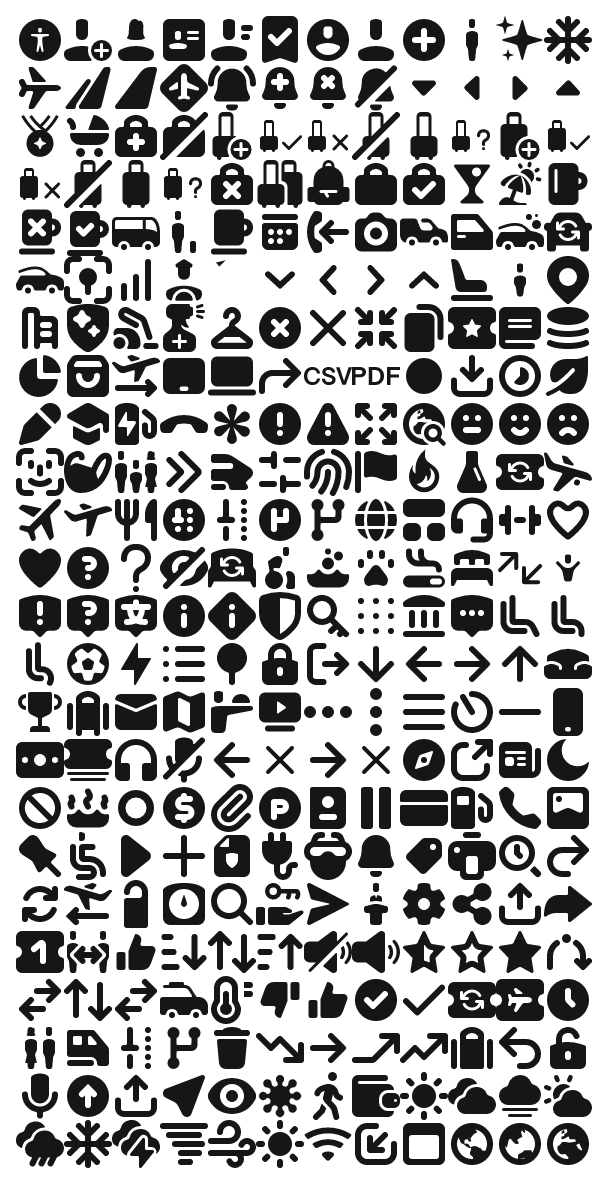
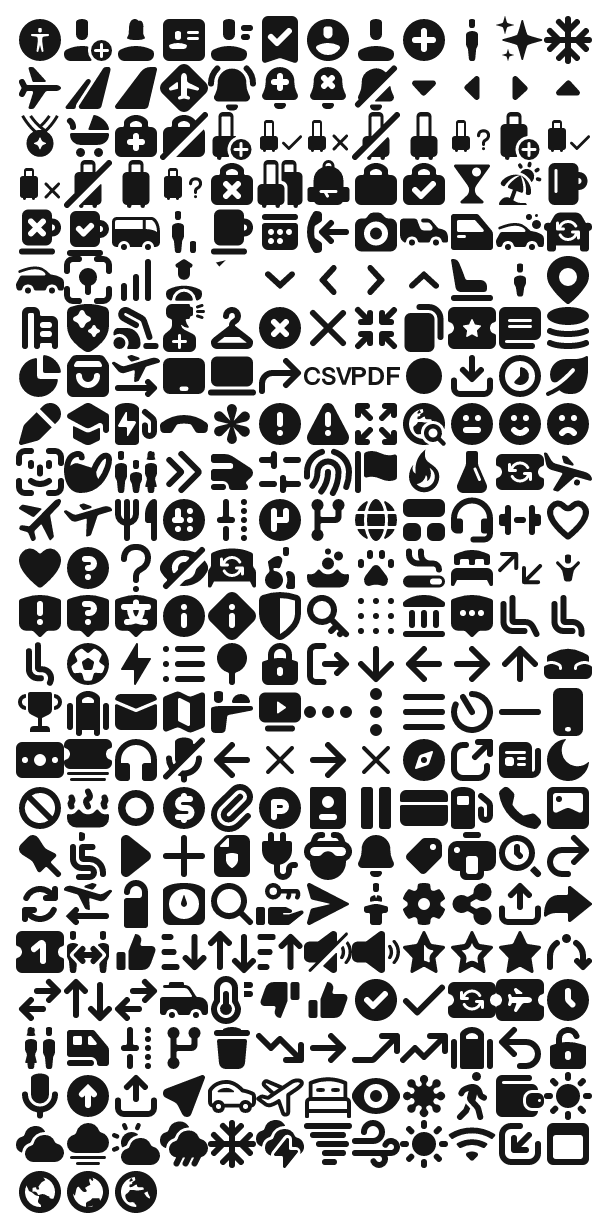
[DON-2356] Update bpk-svg to 20.11.0 (#2511)
* [DON-2356] Update bpk-svg to 20.11.0
 Reverted to BpkIcon constructor internal and update visibility of properties

* Updated snapshots

---------

diff --git a/backpack-compose/src/main/kotlin/net/skyscanner/backpack/compose/tokens/BpkIcon.kt b/backpack-compose/src/main/kotlin/net/skyscanner/backpack/compose/tokens/BpkIcon.kt
@@ -2172,6 +2172,126 @@ public val BpkIcon.Companion.UseLocation: BpkIcon by Delegates.singleton(
     )
 )
 
+public val BpkIcon.Companion.VdlCars: BpkIcon by Delegates.singleton(
+    BpkIcon(
+        name = "vdl-cars",
+        small = R.drawable.bpk_vdl_cars_sm,
+        large = R.drawable.bpk_vdl_cars,
+    )
+)
+
+public val BpkIcon.Companion.VdlFlight: BpkIcon by Delegates.singleton(
+    BpkIcon(
+        name = "vdl-flight",
+        small = R.drawable.bpk_vdl_flight_sm,
+        large = R.drawable.bpk_vdl_flight,
+    )
+)
+
+public val BpkIcon.Companion.VdlHomeBeach: BpkIcon by Delegates.singleton(
+    BpkIcon(
+        name = "vdl-home-beach",
+        small = R.drawable.bpk_vdl_home_beach,
+        large = R.drawable.bpk_vdl_home_beach,
+    )
+)
+
+public val BpkIcon.Companion.VdlHomeCars: BpkIcon by Delegates.singleton(
+    BpkIcon(
+        name = "vdl-home-cars",
+        small = R.drawable.bpk_vdl_home_cars,
+        large = R.drawable.bpk_vdl_home_cars,
+    )
+)
+
+public val BpkIcon.Companion.VdlHomeFlight: BpkIcon by Delegates.singleton(
+    BpkIcon(
+        name = "vdl-home-flight",
+        small = R.drawable.bpk_vdl_home_flight,
+        large = R.drawable.bpk_vdl_home_flight,
+    )
+)
+
+public val BpkIcon.Companion.VdlHomeHotels: BpkIcon by Delegates.singleton(
+    BpkIcon(
+        name = "vdl-home-hotels",
+        small = R.drawable.bpk_vdl_home_hotels,
+        large = R.drawable.bpk_vdl_home_hotels,
+    )
+)
+
+public val BpkIcon.Companion.VdlHotels: BpkIcon by Delegates.singleton(
+    BpkIcon(
+        name = "vdl-hotels",
+        small = R.drawable.bpk_vdl_hotels_sm,
+        large = R.drawable.bpk_vdl_hotels,
+    )
+)
+
+public val BpkIcon.Companion.VdlTabDrops: BpkIcon by Delegates.singleton(
+    BpkIcon(
+        name = "vdl-tab-drops",
+        small = R.drawable.bpk_vdl_tab_drops,
+        large = R.drawable.bpk_vdl_tab_drops,
+    )
+)
+
+public val BpkIcon.Companion.VdlTabDropsSelected: BpkIcon by Delegates.singleton(
+    BpkIcon(
+        name = "vdl-tab-drops-selected",
+        small = R.drawable.bpk_vdl_tab_drops_selected,
+        large = R.drawable.bpk_vdl_tab_drops_selected,
+    )
+)
+
+public val BpkIcon.Companion.VdlTabProfile: BpkIcon by Delegates.singleton(
+    BpkIcon(
+        name = "vdl-tab-profile",
+        small = R.drawable.bpk_vdl_tab_profile,
+        large = R.drawable.bpk_vdl_tab_profile,
+    )
+)
+
+public val BpkIcon.Companion.VdlTabProfileSelected: BpkIcon by Delegates.singleton(
+    BpkIcon(
+        name = "vdl-tab-profile-selected",
+        small = R.drawable.bpk_vdl_tab_profile_selected,
+        large = R.drawable.bpk_vdl_tab_profile_selected,
+    )
+)
+
+public val BpkIcon.Companion.VdlTabSaved: BpkIcon by Delegates.singleton(
+    BpkIcon(
+        name = "vdl-tab-saved",
+        small = R.drawable.bpk_vdl_tab_saved,
+        large = R.drawable.bpk_vdl_tab_saved,
+    )
+)
+
+public val BpkIcon.Companion.VdlTabSavedSelected: BpkIcon by Delegates.singleton(
+    BpkIcon(
+        name = "vdl-tab-saved-selected",
+        small = R.drawable.bpk_vdl_tab_saved_selected,
+        large = R.drawable.bpk_vdl_tab_saved_selected,
+    )
+)
+
+public val BpkIcon.Companion.VdlTabSearch: BpkIcon by Delegates.singleton(
+    BpkIcon(
+        name = "vdl-tab-search",
+        small = R.drawable.bpk_vdl_tab_search,
+        large = R.drawable.bpk_vdl_tab_search,
+    )
+)
+
+public val BpkIcon.Companion.VdlTabSearchSelected: BpkIcon by Delegates.singleton(
+    BpkIcon(
+        name = "vdl-tab-search-selected",
+        small = R.drawable.bpk_vdl_tab_search_selected,
+        large = R.drawable.bpk_vdl_tab_search_selected,
+    )
+)
+
 public val BpkIcon.Companion.View: BpkIcon by Delegates.singleton(
     BpkIcon(
         name = "view",
@@ -2602,6 +2722,21 @@ public val BpkIcon.Companion.values: List<BpkIcon> by Delegates.singleton(
         BpkIcon.Upgrade,
         BpkIcon.Upload,
         BpkIcon.UseLocation,
+        BpkIcon.VdlCars,
+        BpkIcon.VdlFlight,
+        BpkIcon.VdlHomeBeach,
+        BpkIcon.VdlHomeCars,
+        BpkIcon.VdlHomeFlight,
+        BpkIcon.VdlHomeHotels,
+        BpkIcon.VdlHotels,
+        BpkIcon.VdlTabDrops,
+        BpkIcon.VdlTabDropsSelected,
+        BpkIcon.VdlTabProfile,
+        BpkIcon.VdlTabProfileSelected,
+        BpkIcon.VdlTabSaved,
+        BpkIcon.VdlTabSavedSelected,
+        BpkIcon.VdlTabSearch,
+        BpkIcon.VdlTabSearchSelected,
         BpkIcon.View,
         BpkIcon.Virus,
         BpkIcon.Walk,

diff --git a/backpack-compose/src/main/kotlin/net/skyscanner/backpack/compose/icon/BpkIcon.kt b/backpack-compose/src/main/kotlin/net/skyscanner/backpack/compose/icon/BpkIcon.kt
@@ -32,10 +32,10 @@ import net.skyscanner.backpack.compose.tokens.BpkSpacing
 import net.skyscanner.backpack.compose.tokens.values
 
 @Immutable
-class BpkIcon(
+class BpkIcon internal constructor(
     val name: String,
-    val small: Int,
-    val large: Int,
+    internal val small: Int,
+    internal val large: Int,
 ) {
 
     override fun equals(other: Any?): Boolean =
